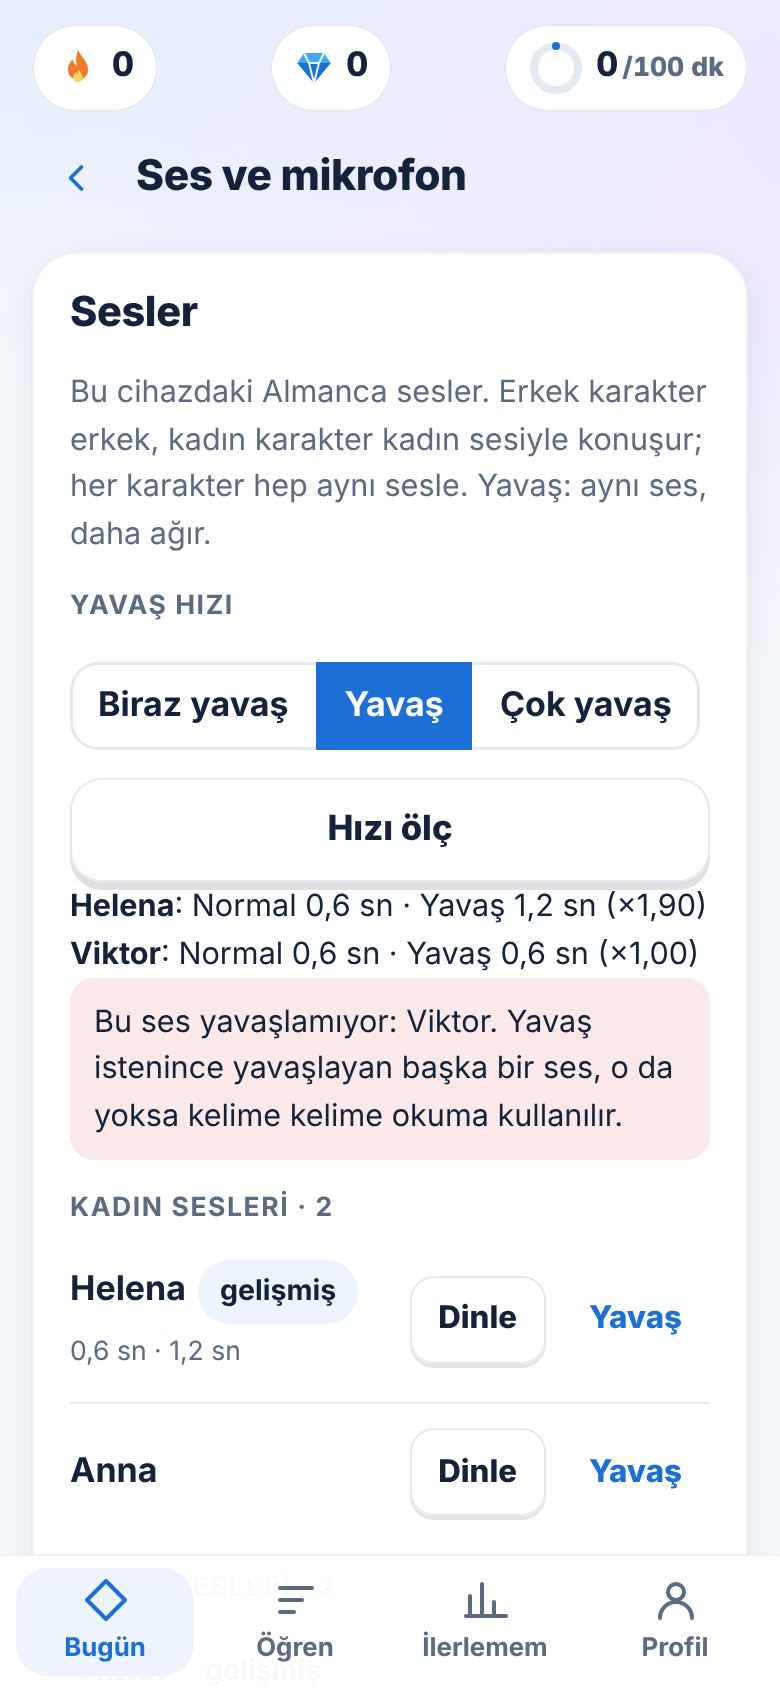
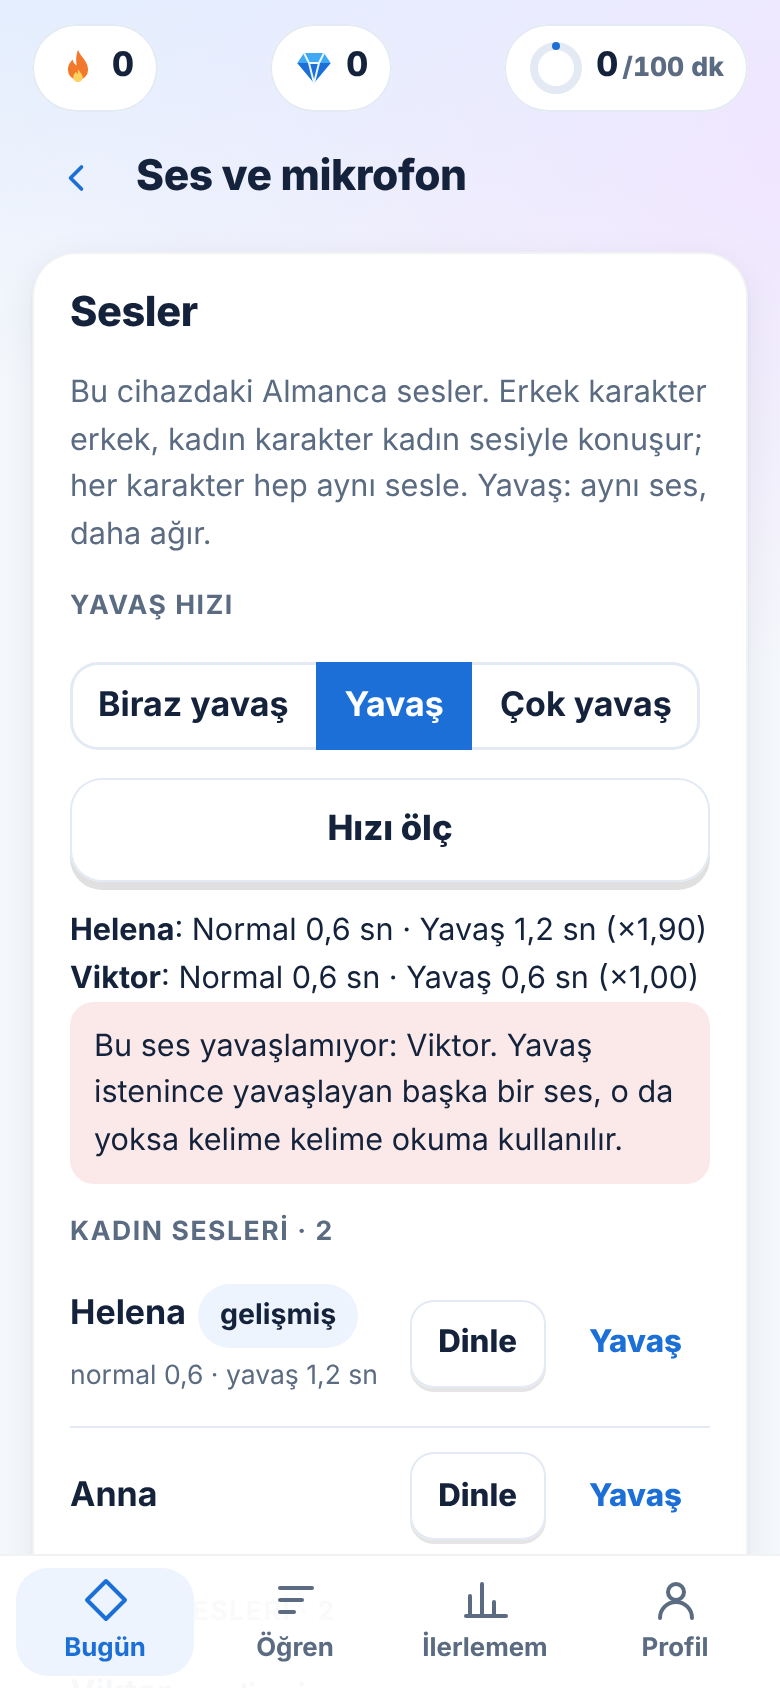
v2 (Yavaş): 0,3 sn altı ölçüm sayılmaz (ölçülemedi, yeniden dene; kayıt ve hüküm yok); ölçüm bitmeden satır yok; sonuçlar düğmeden ayrık; satırda 'normal · yavaş' (PM 7043447488)
Claude-Session: https://claude.ai/code/session_016gishG3oMjbKiLi4Fij94B

diff --git a/web/src/screens/SesDeneme.tsx b/web/src/screens/SesDeneme.tsx
@@ -10,7 +10,7 @@ import { useEffect, useRef, useState } from "preact/hooks";
 import { TopBar } from "../ui/components.tsx";
 import { Icon } from "../ui/icons.tsx";
 import { havuzlar, sesKalitesi, type Ses } from "../core/sesSec.ts";
-import { cihazSesleri, hizKaydet, hizKaydi, hizOrani, karakterSesi, listenOnce, olcCal, ORAN_ESIK, RATE, speak, STT_HATA_TR, sttHataTuru, sttYolu, ttsAvailable, YAVAS_SECENEK, type HizOlcum, type YavasOran } from "../services/speech.ts";
+import { cihazSesleri, gecerliOlcum, hizKaydet, hizKaydi, hizOrani, karakterSesi, listenOnce, olcCal, ORAN_ESIK, RATE, speak, STT_HATA_TR, sttHataTuru, sttYolu, ttsAvailable, YAVAS_SECENEK, type HizOlcum, type YavasOran } from "../services/speech.ts";
 import { useApp } from "../state.ts";
 import { loadWorld } from "../services/content.ts";
 import { kabukBilgisi, kabukSatiri, type KabukBilgisi } from "../services/kabuk.ts";
@@ -32,12 +32,13 @@ function SesSatiri({ s, kayit, kaydet }: { s: Ses; kayit: Kayit; kaydet: (ad: st
     if (ms === null) return;
     const y = { ...yarim, ...(o ? { normalMs: o.normalMs, yavasMs: o.yavasMs } : {}), [yavas ? "yavasMs" : "normalMs"]: ms };
     setYarim(y);
-    if (y.normalMs && y.yavasMs) kaydet(s.name, { normalMs: y.normalMs, yavasMs: y.yavasMs, rate: RATE.slow });
+    // yalnız iki geçerli süre birlikte kayda girer (PM 7043447488-1)
+    if (y.normalMs && y.yavasMs && gecerliOlcum({ normalMs: y.normalMs, yavasMs: y.yavasMs })) kaydet(s.name, { normalMs: y.normalMs, yavasMs: y.yavasMs, rate: RATE.slow });
   };
   return (
     <li class="row ses-satir" style={{ flexWrap: "nowrap" }} data-test="ses" data-ad={s.name} data-oran={o ? hizOrani(o).toFixed(2) : ""}>
       <span class="grow" style={{ minWidth: 0 }}><b>{kisaAd(s.name)}</b>{sesKalitesi(s) >= 2 && <span class="chip" style={{ marginLeft: 6 }}>gelişmiş</span>}
-        {o && <><br /><span class={`tiny ${hizOrani(o) < ORAN_ESIK ? "fb-uyari" : "muted"}`} data-test="ses-hiz">{sn(o.normalMs)} · {sn(o.yavasMs)}{hizOrani(o) < ORAN_ESIK ? " · yavaşlamıyor" : ""}</span></>}</span>
+        {o && <><br /><span class={`tiny ${hizOrani(o) < ORAN_ESIK ? "fb-uyari" : "muted"}`} data-test="ses-hiz">normal {sn(o.normalMs).replace(" sn", "")} · yavaş {sn(o.yavasMs)}{hizOrani(o) < ORAN_ESIK ? " · yavaşlamıyor" : ""}</span></>}</span>
       <button class="btn sm" onClick={() => void dinle(false)} data-test="ses-dinle">Dinle</button>
       <button class="btn sm ghost" onClick={() => void dinle(true)} data-test="ses-yavas">Yavaş</button>
     </li>
@@ -48,20 +49,24 @@ function SesSatiri({ s, kayit, kaydet }: { s: Ses; kayit: Kayit; kaydet: (ad: st
 function HizOlcumu({ hedef, kayit, kaydet }: { hedef: Ses[]; kayit: Kayit; kaydet: (ad: string, o: HizOlcum) => void }) {
   const { profile, setProfile, toast } = useApp();
   const [olcuyor, setOlcuyor] = useState(false);
+  const [olculemedi, setOlculemedi] = useState<string[]>([]);
   const secili = profile.listening.slowRate;
   const sec = (r: YavasOran) => { const n = structuredClone(profile); n.listening.slowRate = r; RATE.slow = r; void setProfile(n).then(() => toast("Kaydedildi"), () => toast("Kaydedilmedi")); };
   const olc = async () => {
-    setOlcuyor(true);
+    setOlcuyor(true); setOlculemedi([]);
+    const olmayan: string[] = [];
     for (const s of hedef) {
       const v = sesNesnesi(s.name);
       const normalMs = await olcCal(ORNEK, v, RATE.normal);
       const yavasMs = normalMs === null ? null : await olcCal(ORNEK, v, RATE.slow);
-      if (normalMs !== null && yavasMs !== null) kaydet(s.name, { normalMs, yavasMs, rate: RATE.slow });
+      // ses hiç çalmadıysa (süre < 0,3 sn) ölçülemedi: oran ve uyarı yazılmaz, kayıt tutulmaz, yedek devreye girmez
+      if (normalMs !== null && yavasMs !== null && gecerliOlcum({ normalMs, yavasMs })) kaydet(s.name, { normalMs, yavasMs, rate: RATE.slow });
+      else olmayan.push(s.name);
     }
-    setOlcuyor(false);
+    setOlculemedi(olmayan); setOlcuyor(false);
   };
   const olculen = hedef.filter((s) => kayit[s.name]);
-  const yavaslamayan = olculen.filter((s) => hizOrani(kayit[s.name]!) < ORAN_ESIK);
+  const yavaslamayan = olculen.filter((s) => !olculemedi.includes(s.name) && hizOrani(kayit[s.name]!) < ORAN_ESIK);
   return (
     <div class="stack" data-test="hiz-olcum">
       <div class="kicker">Yavaş hızı</div>
@@ -69,8 +74,12 @@ function HizOlcumu({ hedef, kayit, kaydet }: { hedef: Ses[]; kayit: Kayit; kayde
         {YAVAS_SECENEK.map((r) => <button aria-pressed={secili === r} onClick={() => sec(r)} data-oran={r}>{r === 0.6 ? "Biraz yavaş" : r === 0.5 ? "Yavaş" : "Çok yavaş"}</button>)}
       </div>
       <button class="btn block" disabled={olcuyor || !hedef.length} onClick={() => void olc()} data-test="hiz-olc">{olcuyor ? "Ölçülüyor…" : "Hızı ölç"}</button>
-      {olculen.map((s) => { const o = kayit[s.name]!; return <p class="small" style={{ margin: 0 }} data-test="hiz-sonuc" data-ad={s.name}><b>{kisaAd(s.name)}</b>: Normal {sn(o.normalMs)} · Yavaş {sn(o.yavasMs)} ({kat(hizOrani(o))})</p>; })}
-      {yavaslamayan.length > 0 && <p class="small fb-uyari" role="alert" data-test="hiz-uyari">Bu ses yavaşlamıyor: {yavaslamayan.map((s) => kisaAd(s.name)).join(", ")}. Yavaş istenince yavaşlayan başka bir ses, o da yoksa kelime kelime okuma kullanılır.</p>}
+      {/* ölçüm sürerken yarım satır gösterilmez; sonuçlar düğmeden bir satır aşağıda (PM 7043447488-1, 2) */}
+      {!olcuyor && (olculen.length > 0 || olculemedi.length > 0) && <div class="hiz-sonuclar" style={{ marginTop: 12 }}>
+        {olculen.filter((s) => !olculemedi.includes(s.name)).map((s) => { const o = kayit[s.name]!; return <p class="small" style={{ margin: 0 }} data-test="hiz-sonuc" data-ad={s.name}><b>{kisaAd(s.name)}</b>: Normal {sn(o.normalMs)} · Yavaş {sn(o.yavasMs)} ({kat(hizOrani(o))})</p>; })}
+        {olculemedi.map((ad) => <p class="small" style={{ margin: 0 }} data-test="hiz-olculemedi" data-ad={ad}><b>{kisaAd(ad)}</b>: ölçülemedi, yeniden dene.</p>)}
+      </div>}
+      {!olcuyor && yavaslamayan.length > 0 && <p class="small fb-uyari" role="alert" data-test="hiz-uyari">Bu ses yavaşlamıyor: {yavaslamayan.map((s) => kisaAd(s.name)).join(", ")}. Yavaş istenince yavaşlayan başka bir ses, o da yoksa kelime kelime okuma kullanılır.</p>}
     </div>
   );
 }

diff --git a/web/src/services/speech.ts b/web/src/services/speech.ts
@@ -61,11 +61,16 @@ function voiceFor(lang: "de" | "tr"): SpeechSynthesisVoice | undefined {
  */
 export interface HizOlcum { normalMs: number; yavasMs: number; rate: number }
 const HIZ_KEY = "dw2-ses-hiz";
-export function hizKaydi(): Record<string, HizOlcum> { try { return JSON.parse(localStorage.getItem(HIZ_KEY) || "{}"); } catch { return {}; } }
-export function hizKaydet(ad: string, o: HizOlcum) { try { const k = hizKaydi(); k[ad] = o; localStorage.setItem(HIZ_KEY, JSON.stringify(k)); } catch { /* özel kip: ölçüm yalnız ekranda kalır */ } }
+export function hizKaydi(): Record<string, HizOlcum> {
+  try { const k = JSON.parse(localStorage.getItem(HIZ_KEY) || "{}") as Record<string, HizOlcum>; return Object.fromEntries(Object.entries(k).filter(([, o]) => gecerliOlcum(o))); } catch { return {}; }
+}
+export function hizKaydet(ad: string, o: HizOlcum) { if (!gecerliOlcum(o)) return; try { const k = hizKaydi(); k[ad] = o; localStorage.setItem(HIZ_KEY, JSON.stringify(k)); } catch { /* özel kip: ölçüm yalnız ekranda kalır */ } }
 export const hizOrani = (o: HizOlcum) => o.yavasMs / Math.max(1, o.normalMs);
 /** true: ölçüldü ve yavaşlamıyor; false: ölçüldü ve yavaşlıyor; undefined: ölçülmedi */
-export function yavasliyorMu(ad: string): boolean | undefined { const o = hizKaydi()[ad]; return o ? hizOrani(o) >= ORAN_ESIK : undefined; }
+/** PM 7043447488-1: iki süreden biri 0,3 sn'nin altındaysa ses çalmamış demektir; ölçüm sayılmaz (kayıt yok, hüküm yok) */
+export const OLCUM_ALT_MS = 300;
+export const gecerliOlcum = (o: { normalMs: number; yavasMs: number }) => o.normalMs >= OLCUM_ALT_MS && o.yavasMs >= OLCUM_ALT_MS;
+export function yavasliyorMu(ad: string): boolean | undefined { const o = hizKaydi()[ad]; return o && gecerliOlcum(o) ? hizOrani(o) >= ORAN_ESIK : undefined; }
 /** Tek cümleyi verilen ses ve hızla çalar; onstart→onend milisaniyesi (onstart hiç gelmezse çağrı→onend; zaman aşımında null) */
 export function olcCal(text: string, ses: SpeechSynthesisVoice | undefined, rate: number): Promise<number | null> {
   if (!ttsAvailable()) return Promise.resolve(null);

diff --git a/web/src/services/speech.yavas.test.ts b/web/src/services/speech.yavas.test.ts
@@ -45,6 +45,17 @@ describe("Yavaş hızı (PM 7042161522-1)", () => {
     expect(yavasliyorMu("Helena (Erweitert)")).toBe(true);
     expect(Object.keys(hizKaydi())).toHaveLength(2);
   });
+  it("0,3 sn altı süre ölçüm sayılmaz: kayıt yok, hüküm yok (PM 7043447488-1)", async () => {
+    const { hizKaydet, yavasliyorMu, hizKaydi, gecerliOlcum } = await import("./speech.ts");
+    hizKaydet("Anna", { normalMs: 0, yavasMs: 0, rate: 0.5 });
+    hizKaydet("Markus", { normalMs: 2900, yavasMs: 120, rate: 0.5 });
+    expect(hizKaydi()).toEqual({});
+    expect(yavasliyorMu("Anna")).toBeUndefined();
+    // eski sürümün yazdığı geçersiz kayıt da yok sayılır
+    depo.set("dw2-ses-hiz", JSON.stringify({ Anna: { normalMs: 30, yavasMs: 30, rate: 0.5 } }));
+    expect(yavasliyorMu("Anna")).toBeUndefined();
+    expect(gecerliOlcum({ normalMs: 300, yavasMs: 450 })).toBe(true);
+  });
   it("ölçülmemiş ses: davranış değişmez (tek cümle, aynı ses, yavaş hız)", async () => {
     const { speak, RATE } = await import("./speech.ts");
     await speak("Ich hätte gern einen Termin.", "de", "slow", true, ses("Anna"));

diff --git a/tests/e2e/v2_ses.py b/tests/e2e/v2_ses.py
@@ -67,8 +67,16 @@ def main():
         # hız ölçümü (PM 7042161522-1)
         sec = pg.locator("[data-test=yavas-oran] button[aria-pressed=true]").get_attribute("data-oran")
         check(sec == "0.5", f"varsayılan yavaş hızı 0,5 ({sec})")
+        # sıfır süreli ses (hiç çalmıyor): ölçülemedi; oran, uyarı ve kayıt yok (PM 7043447488-1)
+        pg.evaluate("window.__sure = 0"); pg.click("[data-test=hiz-olc]")
+        pg.wait_for_function("() => { const b = document.querySelector('[data-test=hiz-olc]'); return b && !b.disabled && document.querySelectorAll('[data-test=hiz-olculemedi]').length >= 2; }", timeout=15_000)
+        check(pg.locator("[data-test=hiz-sonuc]").count() == 0 and pg.locator("[data-test=hiz-uyari]").count() == 0 and pg.locator("[data-test=ses-hiz]").count() == 0
+              and pg.evaluate("localStorage.getItem('dw2-ses-hiz') || '{}'") == "{}", "sıfır süreli seste 'ölçülemedi, yeniden dene'; oran, uyarı, kayıt yok")
         pg.evaluate("window.__sure = 1; window.__oku = []"); pg.click("[data-test=hiz-olc]")
+        check(pg.locator("[data-test=hiz-sonuc]").count() == 0, "ölçüm sürerken yarım satır yok")
         pg.wait_for_function("() => { const b = document.querySelector('[data-test=hiz-olc]'); return b && !b.disabled && document.querySelectorAll('[data-test=hiz-sonuc]').length >= 2; }", timeout=15_000)
+        ara = pg.evaluate("() => { const b = document.querySelector('[data-test=hiz-olc]').getBoundingClientRect(); const r = document.querySelector('[data-test=hiz-sonuc]').getBoundingClientRect(); return Math.round(r.top - b.bottom); }")
+        check(ara >= 10, f"sonuç satırları düğmeden ayrık (aralık {ara} px)")
         check(pg.evaluate("window.__oku.length") == 4, f"ölçüm iki sesi normal ve yavaş çaldı ({pg.evaluate('window.__oku.length')} çalma)")
         sonuc = {e["ad"]: e["t"] for e in pg.locator("[data-test=hiz-sonuc]").evaluate_all("(xs) => xs.map((x) => ({ ad: x.dataset.ad, t: x.innerText }))")}
         check(set(sonuc) == {"Helena (Erweitert)", "Viktor (Erweitert)"} and all(re.search(r"Normal \d+,\d sn · Yavaş \d+,\d sn \(×\d,\d\d\)", t) for t in sonuc.values()), f"ölçüm: kadın ve erkek havuzunun ilk sesi, 'Normal x sn · Yavaş y sn' ({list(sonuc.values())})")
@@ -77,6 +85,8 @@ def main():
         uy = pg.inner_text("[data-test=hiz-uyari]") if pg.locator("[data-test=hiz-uyari]").count() else ""
         check(uy.startswith("Bu ses yavaşlamıyor: Viktor") and "Helena" not in uy, f"yalnız yavaşlamayan ses için uyarı ({uy[:60]})")
         check("yavaşlamıyor" in pg.locator("[data-test=havuz-erkek] [data-test=ses]").first.inner_text() and "yavaşlamıyor" not in pg.locator("[data-test=havuz-kadin] [data-test=ses]").first.inner_text(), "ses satırında ölçüm ve 'yavaşlamıyor' işareti")
+        satir_hiz = pg.locator("[data-test=havuz-kadin] [data-test=ses-hiz]").first.inner_text()
+        check(re.fullmatch(r"normal \d+,\d · yavaş \d+,\d sn", satir_hiz) is not None, f"ses satırında hangisinin ne olduğu yazılı ({satir_hiz})")
         kab = pg.inner_text("[data-test=kabuk-satir]")
         check(re.search(r"yavaş: Helena ×\d,\d\d, Viktor ×\d,\d\d yavaşlamıyor$", kab) is not None, f"kabuk satırına yavaş notu ({kab[-60:]})")
         if shots: pg.locator("[data-test=hiz-olcum]").scroll_into_view_if_needed(); shot(pg, f"s00-hiz-olcum-{TEMA}", full=False)
